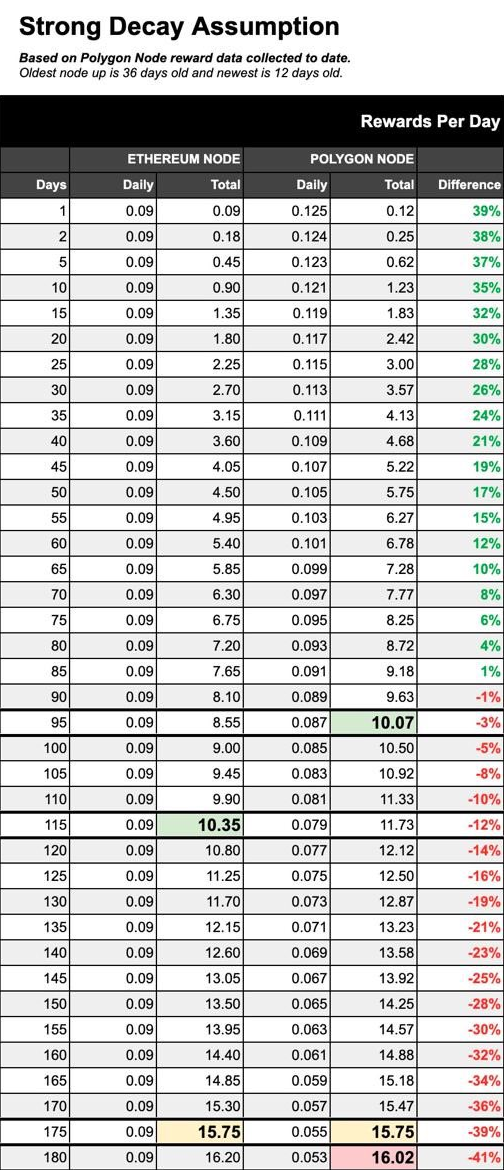
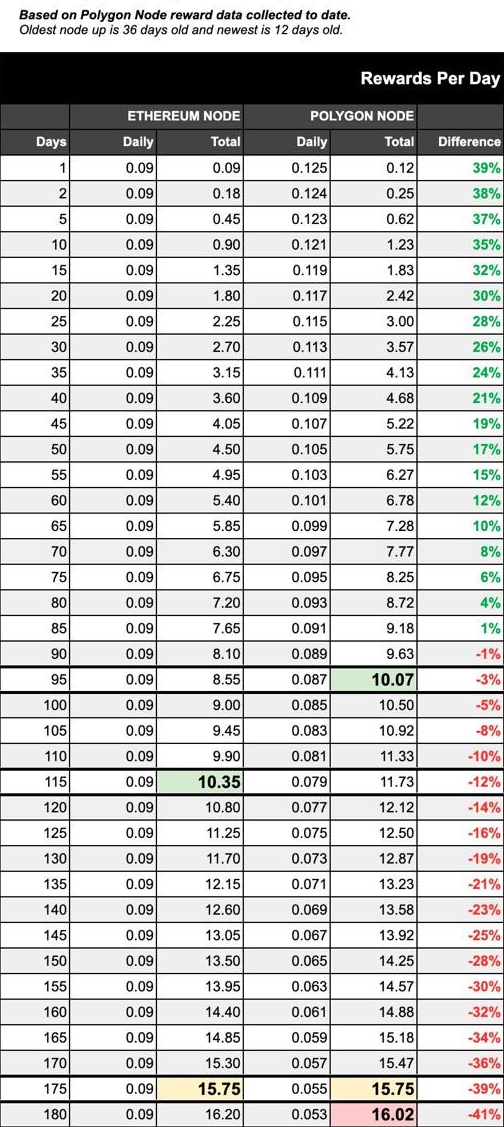
decay assumption table

diff --git a/src/components/Settings/NodeSettings.vue b/src/components/Settings/NodeSettings.vue
@@ -27,10 +27,24 @@
                     </p>
                     <div v-if="network.name == 'etherum'">
                       <p class="mt-1">
-                        {{ $t("components.node_settings." + network.name + ".input_rewards_description_etherscan") }}
-                        <a href="https://etherscan.io/chart/blocks?output=csv" target="_blank" rel="noopener noreferrer"> {{ $t("components.node_settings." + network.name + ".input_rewards_description_etherscan_link") }}</a
-                        >.
+                        {{ $t("components.node_settings." + network.name + ".input_rewards_description_info") }}
+                        <a href="https://etherscan.io/chart/blocks?output=csv" target="_blank" rel="noopener noreferrer"> {{ $t("components.node_settings." + network.name + ".input_rewards_description_link") }} </a>.
                       </p>
+                    </div>
+                    <div v-if="network.name == 'polygon'">
+                      <p class="mt-1">
+                        {{ $t("components.node_settings." + network.name + ".input_rewards_description_info") }}
+                        <span v-b-modal.modal-decay-assumption-table>{{ $t("components.node_settings." + network.name + ".input_rewards_description_link") }} </span>.
+                      </p>
+                      <b-modal id="modal-decay-assumption-table" hide-footer centered title="Decay assumption">
+                        <b-container fluid>
+                          <b-row>
+                            <b-col>
+                              <b-img src="decay-assumption.png" fluid-grow alt="Fluid-grow image"></b-img>
+                            </b-col>
+                          </b-row>
+                        </b-container>
+                      </b-modal>
                     </div>
                   </template>
                 </b-form-group>

diff --git a/src/App.vue b/src/App.vue
@@ -72,16 +72,6 @@
       </b-row>
     </b-container>
 
-    <b-container fluid="md" v-if="!newNodeModelToast">
-      <b-row>
-        <b-col>
-          <small>
-            <b-alert show dismissible variant="warning" class="mb-0 mt-4" @dismissed="handleNewNodeModelToastDismiss">{{ $t("nodeModelUpdate.message") }}</b-alert>
-          </small>
-        </b-col>
-      </b-row>
-    </b-container>
-
     <router-view class="mt-4 mb-4" />
 
     <b-toast id="reset-toast" toaster="b-toaster-top-center" auto-hide-delay="5000" append-toast no-close-button solid>
